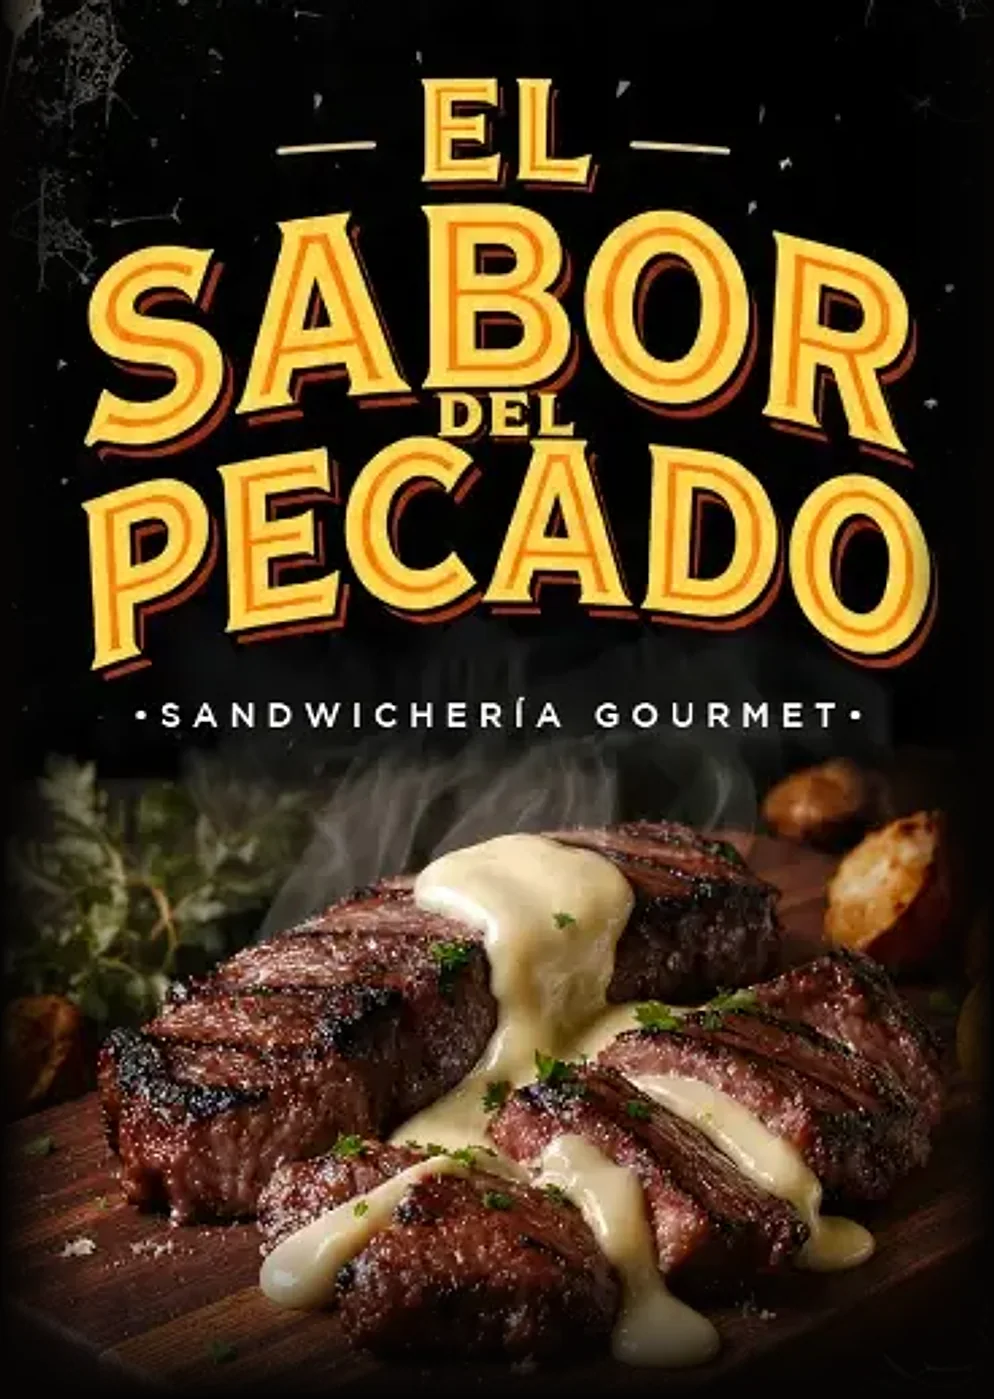
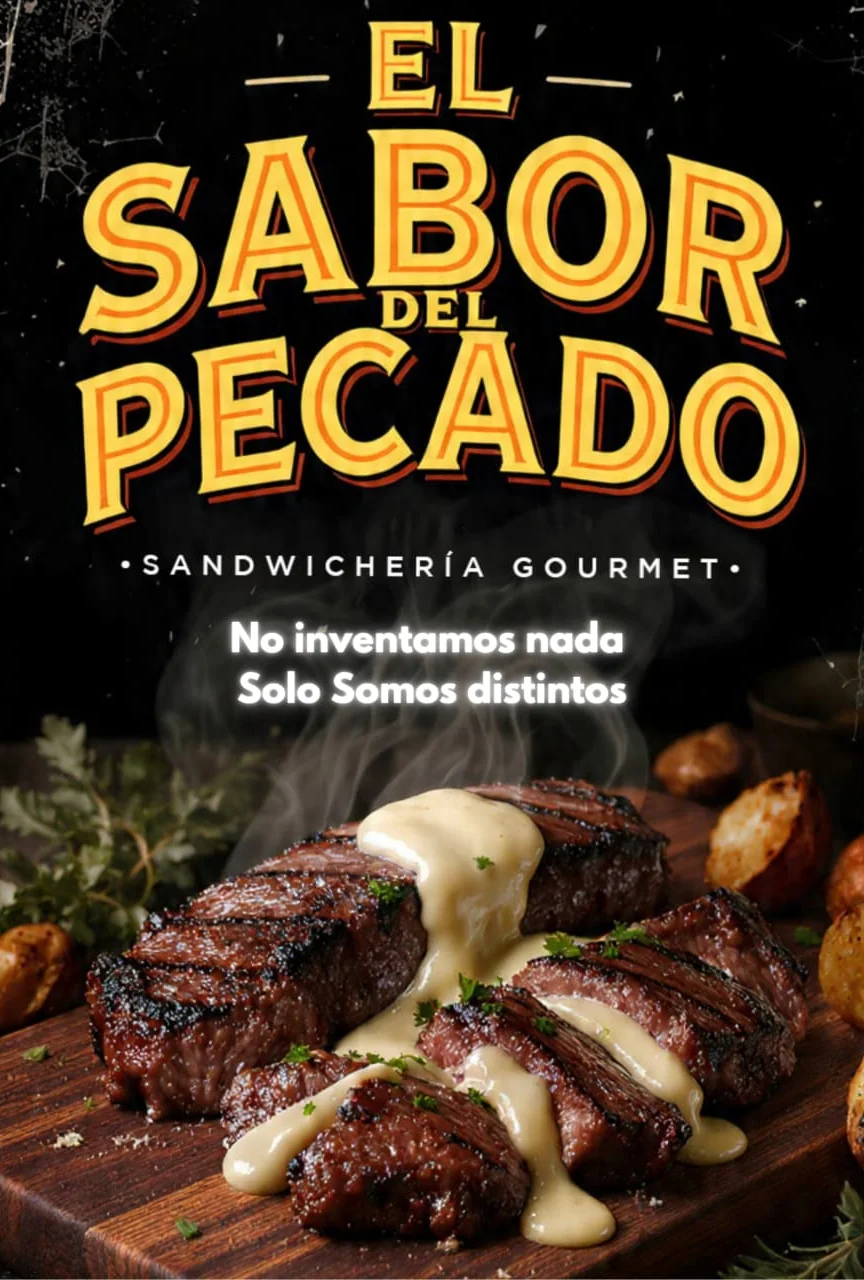
Portada nueva y fotos en las opciones de pan
- La portada pasa a ser el póster con la frase No inventamos nada, solo somos distintos, recortado y a pantalla completa.
- Las opciones de pan (Francés, Criollo y Ciabatta) muestran su foto en la hoja del producto.
- El menú guardado se actualiza a la versión 4 con un cambio puntual que agrega las fotos de pan, sin pisar lo editado en el admin.

diff --git a/netlify/functions/utils/default-catalog.js b/netlify/functions/utils/default-catalog.js
@@ -29,13 +29,21 @@ function guarnicionVariant() {
   };
 }
 
+// Foto de cada pan, para mostrarla en las opciones del sándwich.
+const PAN_IMAGES = {
+  "Francés": "images/pan/frances.webp",
+  "Criollo": "images/pan/criollo.webp",
+  "Ciabatta": "images/pan/ciabatta.webp"
+};
+
 function panVariant() {
   return {
     id: "pan",
     name: "Tipo de pan",
     multiple: false,
     required: true,
-    options: ["Francés", "Criollo", "Ciabatta"]
+    options: ["Francés", "Criollo", "Ciabatta"],
+    optionImages: PAN_IMAGES
   };
 }
 
@@ -66,7 +74,7 @@ function sandwichExtras() {
 // se guardó antes de que existieran las fotos y los precios actuales), catalog-get lo reemplaza
 // UNA vez por el menú inicial, conservando los ajustes (WhatsApp, horarios, envío, etc.).
 // Subir este número a propósito pisa los cambios hechos en el admin: solo hacerlo si se quiere eso.
-const MENU_VERSION = 3;
+const MENU_VERSION = 4;
 
 function defaultCatalog() {
   return {
@@ -303,9 +311,27 @@ function patchToV3(stored) {
   return c;
 }
 
+// Versión 3 -> 4: las opciones de pan de los sándwiches pasan a mostrar su foto.
+function patchToV4(stored) {
+  const c = JSON.parse(JSON.stringify(stored));
+  for (const category of c.categories || []) {
+    for (const product of category.products || []) {
+      for (const variant of product.variants || []) {
+        if (variant.id !== "pan" || variant.optionImages) continue;
+        const images = {};
+        for (const option of variant.options || []) if (PAN_IMAGES[option]) images[option] = PAN_IMAGES[option];
+        if (Object.keys(images).length) variant.optionImages = images;
+      }
+    }
+  }
+  c.menuVersion = 4;
+  return c;
+}
+
 // Ajustes que no son del menú y se conservan al reemplazar el menú guardado.
 function migrateCatalog(stored) {
-  if (stored && stored.menuVersion === 2) return patchToV3(stored);
+  if (stored && stored.menuVersion === 2) return patchToV4(patchToV3(stored));
+  if (stored && stored.menuVersion === 3) return patchToV4(stored);
   const fresh = defaultCatalog();
   if (!stored) return fresh;
 

diff --git a/css/styles.css b/css/styles.css
@@ -2096,13 +2096,10 @@ body.has-cart .toast {
 
 .hero-poster-img {
   display: block;
-  width: 90%;
+  width: 100%;
   height: auto;
-  margin: 0 auto;
-  aspect-ratio: 994 / 1399;
+  aspect-ratio: 864 / 1280;
   object-fit: cover;
-  /* El póster se muestra un poco más chico para que la carne no quede cortada. Los bordes
-     difuminados ya vienen dentro de la imagen (se evita una máscara que se recalcula en cada scroll). */
 }
 
 .hero-poster::after {
@@ -2630,3 +2627,14 @@ body.ready .hero-poster-img {
 .cart-promo { margin-top: 10px; padding: 10px 12px; border-radius: 12px; font-size: 14px; font-weight: 700; }
 .cart-promo.ok { display: flex; justify-content: space-between; background: rgba(46, 189, 107, 0.16); color: #7be0a6; }
 .cart-promo.hint { background: rgba(255, 193, 7, 0.12); color: var(--dorado); }
+
+/* Opciones con foto (por ejemplo, el tipo de pan) */
+.variant-option.has-photo { padding: 6px 10px 6px 6px; }
+.variant-thumb {
+  width: 56px;
+  height: 56px;
+  flex: none;
+  border-radius: 10px;
+  object-fit: cover;
+  background: #2a2a2a;
+}

diff --git a/js/main.js b/js/main.js
@@ -434,11 +434,13 @@
           .map((opt, idx) => {
             const inputId = `variant-${variant.id}-${idx}`;
             const checkedFirst = !variant.multiple && idx === 0 ? "checked" : "";
+            const photo = variant.optionImages && variant.optionImages[opt];
             return `
-              <label class="variant-option" for="${inputId}">
+              <label class="variant-option${photo ? " has-photo" : ""}" for="${inputId}">
                 <input type="${inputType}" id="${inputId}" name="variant-${variant.id}"
                   value="${escapeHtml(opt)}" data-variant-id="${variant.id}" data-variant-name="${escapeHtml(variant.name)}"
                   ${checkedFirst} />
+                ${photo ? `<img class="variant-thumb" src="${escapeHtml(photo)}" alt="" width="56" height="56" loading="lazy" decoding="async" />` : ""}
                 <span>${escapeHtml(opt)}</span>
               </label>
             `;

diff --git a/index.html b/index.html
@@ -55,7 +55,7 @@
   </div>
 
   <header class="site-header hero-banner hero-poster">
-    <img class="hero-poster-img" src="images/hero-poster.webp" width="994" height="1399" fetchpriority="high" decoding="async" alt="El Sabor del Pecado, sandwichería gourmet. Cortes de carne con salsa cremosa" />
+    <img class="hero-poster-img" src="images/hero-poster.webp" width="864" height="1280" fetchpriority="high" decoding="async" alt="El Sabor del Pecado, sandwichería gourmet. Cortes de carne con salsa cremosa" />
     <div class="header-top">
       <button class="menu-toggle" id="menuToggle" aria-label="Abrir menú"><svg class="ico" viewBox="0 0 24 24" fill="none" stroke="currentColor" stroke-width="1.8" stroke-linecap="round" stroke-linejoin="round" aria-hidden="true"><path d="M4 7h16M4 12h16M4 17h10"/></svg></button>
       <button class="cart-button" id="cartButton" aria-label="Ver carrito">

diff --git a/netlify/functions/catalog-save.js b/netlify/functions/catalog-save.js
@@ -111,6 +111,15 @@ function validateCatalog(catalog) {
         if (!isNonEmptyString(variant.id) || !isNonEmptyString(variant.name)) {
           return `Una variante de ${product.name} no tiene id/nombre`;
         }
+        if (variant.optionImages !== undefined) {
+          const images = variant.optionImages;
+          if (!images || typeof images !== "object" || Array.isArray(images)) {
+            return `Las fotos de las opciones de ${variant.name} son inválidas`;
+          }
+          for (const value of Object.values(images)) {
+            if (typeof value !== "string" || value.length > 300) return `Las fotos de las opciones de ${variant.name} son inválidas`;
+          }
+        }
         if (!Array.isArray(variant.options) || variant.options.length === 0) {
           return `La variante ${variant.name} de ${product.name} necesita opciones`;
         }
